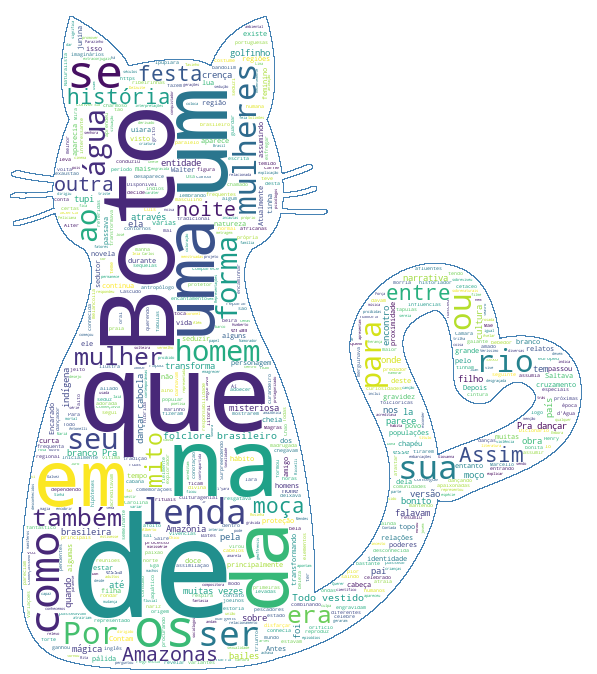
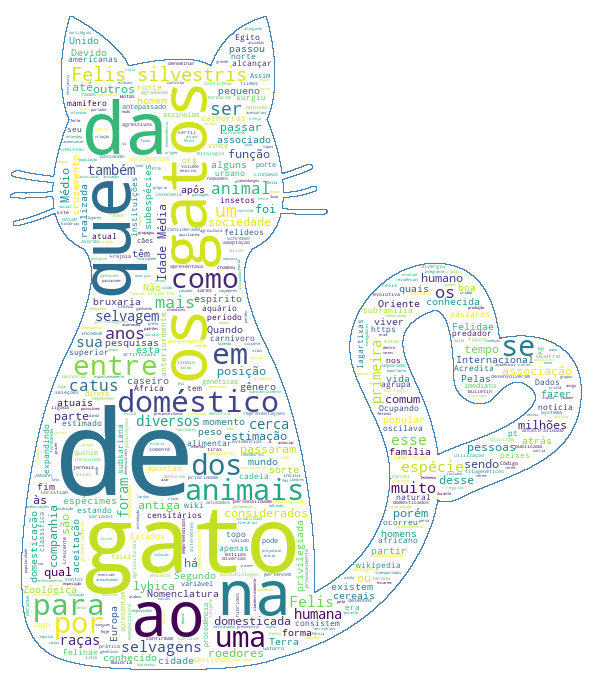
Add template e texto para gato

Changed region(s): [[0.0302, 0.0312, 0.9648, 0.997]]

diff --git a/wordCloud.py b/wordCloud.py
@@ -16,7 +16,7 @@ from wordcloud import WordCloud
 dirWork = path.dirname(__file__) if "__file__" in locals() else os.getcwd()
 
 # Read the whole text.
-text = open(path.join(dirWork, 'boto_rosa.txt')).read()
+text = open(path.join(dirWork, 'texto_gato.txt')).read()
 
 #Dados de entrada e saida
 maskIn = "templates/mask_cat_01.png"
